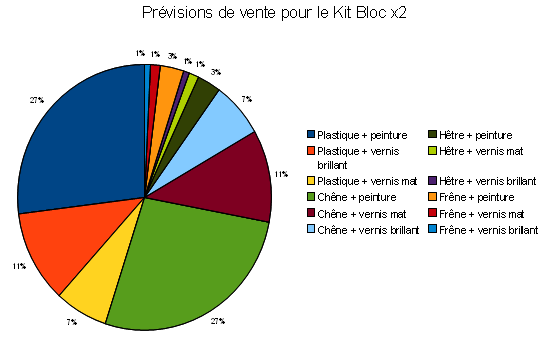
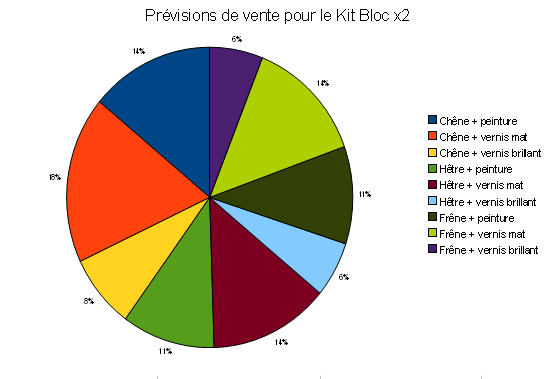
Qualité sur les prévisions de ventes

diff --git a/PrevisionsVente/PrevisionsVente.rst b/PrevisionsVente/PrevisionsVente.rst
@@ -1,0 +1,9 @@
+====================
+Previsions de vente
+====================
+
+Nous commercialisons 3 types de produits, que l'on distingue en fonction de leur dimensions. Sous forme de meuble en kit à monter sois-même, les kits contiennent un, deux ou trois bloc standards. Nous envisageons que le plus vendu sera le Kit Bloc x1 car il est le plus petit et facile à transporter. Ensuite, la préférence se fera au Kit Bloc x4, suivi du Kit Bloc x2. Celui-ci a une dimension assez particulière (2 blocs). Le public préfèrera acheter un produit de grande taille plutôt qu'un produit de taille moyenne qui peut laisser de l'espace non utilisé dans la pièce. En même temps le kit de dimension x2 peut intéresser les personnes qui ne possèdent pas beaucoup d'espace d'espace, comme les étudiants, les personnes vivant dans des endroit où la surface habitable est chère. Nous enregistrons une augmentation des ventes dans les périodes de vacances scolaires (pendant l'été spécialement mais aussi avant Noël) et avant la rentrée scolaire (spécialement pour les Kit Bloc x2 qui peuvent être intéressantes pour les étudiants).
+
+Au niveau des finitions la peinture sera la plus demandée car elle est la moins chère et plus facile à entretenir. Le vernis demande plus de soin et des précautions au moment du transport. Entre les vernis mats et brillants, après avoir effectué plusieurs études, nous avons remarqués que le vernis mat correspond beaucoup plus à la tendance actuelle.
+
+Du point de vue de la matière première utilisée le chêne est le plus commun et connu donc sera le plus demandé. Les préférences pour le hêtre et le frêne seront partagées également.
